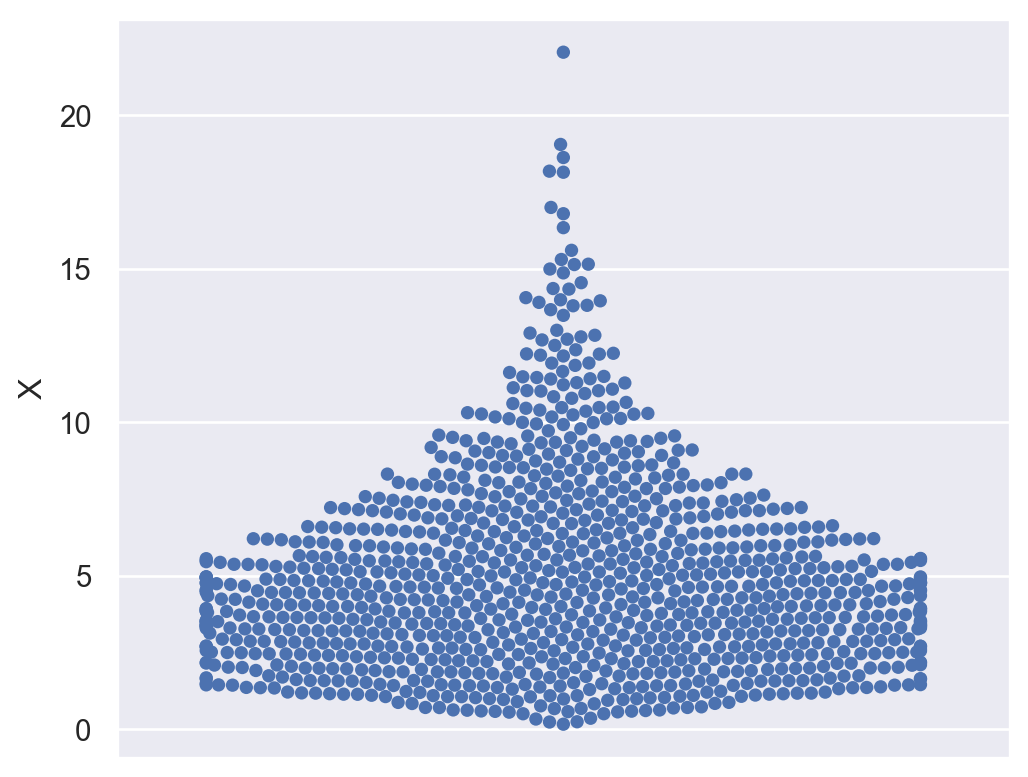
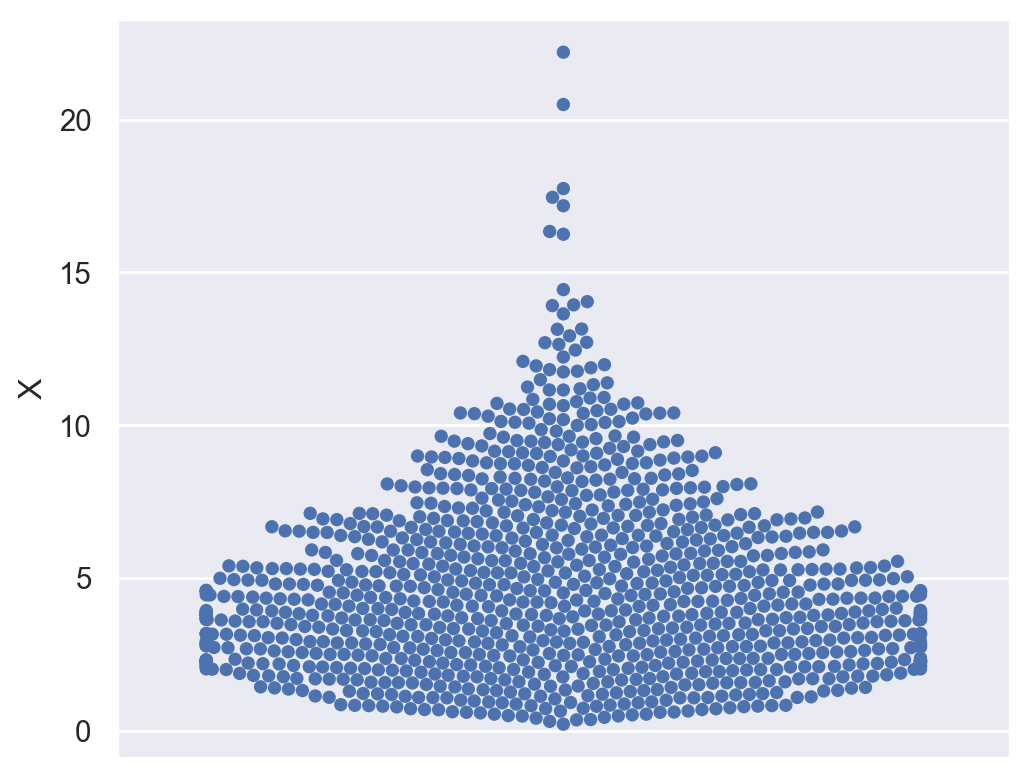
Fixes scatterplot y label

diff --git a/c03_eda/c03_eda.html b/c03_eda/c03_eda.html
@@ -1539,11 +1539,11 @@
 <div class="cell" data-execution_count="16">
 <div class="sourceCode cell-code" id="cb19"><pre class="sourceCode python code-with-copy"><code class="sourceCode python"><span id="cb19-1"><a href="#cb19-1" aria-hidden="true" tabindex="-1"></a>Y <span class="op">=</span> X <span class="op">*</span> <span class="dv">3</span> <span class="op">+</span> <span class="dv">2</span> <span class="op">+</span> np.random.normal(<span class="dv">0</span>, <span class="dv">10</span>, <span class="dv">1000</span>)</span>
 <span id="cb19-2"><a href="#cb19-2" aria-hidden="true" tabindex="-1"></a>sns.scatterplot(X, Y)</span>
-<span id="cb19-3"><a href="#cb19-3" aria-hidden="true" tabindex="-1"></a>plt.ylabel(<span class="st">'Density'</span>)</span>
+<span id="cb19-3"><a href="#cb19-3" aria-hidden="true" tabindex="-1"></a>plt.ylabel(<span class="st">'Y'</span>)</span>
 <span id="cb19-4"><a href="#cb19-4" aria-hidden="true" tabindex="-1"></a>plt.xlabel(<span class="st">'X'</span>)</span>
 <span id="cb19-5"><a href="#cb19-5" aria-hidden="true" tabindex="-1"></a>plt.show()</span></code><button title="Copy to Clipboard" class="code-copy-button"><i class="bi"></i></button></pre></div>
 <div class="cell-output cell-output-display">
-<p><img data-src="c03_eda_files/figure-revealjs/cell-17-output-1.png" width="514" height="440"></p>
+<p><img data-src="c03_eda_files/figure-revealjs/cell-17-output-1.png" width="523" height="435"></p>
 </div>
 </div>
 <aside class="notes">
@@ -1726,11 +1726,11 @@
 <span id="cb21-4"><a href="#cb21-4" aria-hidden="true" tabindex="-1"></a><span class="bu">print</span>(<span class="ss">f'Variance: </span><span class="sc">{</span>np<span class="sc">.</span>var(X) <span class="sc">:.2f}</span><span class="ss">'</span>)</span>
 <span id="cb21-5"><a href="#cb21-5" aria-hidden="true" tabindex="-1"></a><span class="bu">print</span>(<span class="ss">f'Standard Deviation: </span><span class="sc">{</span>np<span class="sc">.</span>std(X) <span class="sc">:.2f}</span><span class="ss">'</span>)</span></code><button title="Copy to Clipboard" class="code-copy-button"><i class="bi"></i></button></pre></div>
 <div class="cell-output cell-output-stdout">
-<pre><code>90th percentile: 9.18
-Range: 21.89
-IQR: 3.89
-Variance: 10.29
-Standard Deviation: 3.21</code></pre>
+<pre><code>90th percentile: 8.95
+Range: 22.00
+IQR: 3.97
+Variance: 9.12
+Standard Deviation: 3.02</code></pre>
 </div>
 </div>
 </div>
@@ -1764,7 +1764,7 @@ Standard Deviation: 3.21</code></pre>
 <span id="cb23-2"><a href="#cb23-2" aria-hidden="true" tabindex="-1"></a></span>
 <span id="cb23-3"><a href="#cb23-3" aria-hidden="true" tabindex="-1"></a><span class="bu">print</span>(<span class="ss">f'Skewness: </span><span class="sc">{</span>stats<span class="sc">.</span>skew(X) <span class="sc">:.2f}</span><span class="ss">'</span>)</span></code><button title="Copy to Clipboard" class="code-copy-button"><i class="bi"></i></button></pre></div>
 <div class="cell-output cell-output-stdout">
-<pre><code>Skewness: 1.28</code></pre>
+<pre><code>Skewness: 1.22</code></pre>
 </div>
 </div>
 </div>
